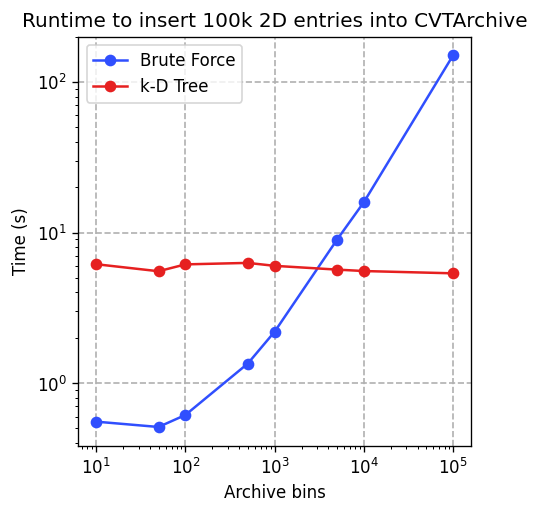
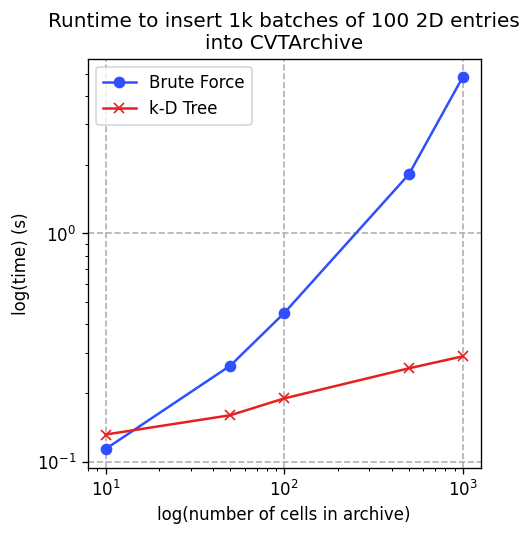
Re-run CVTArchive benchmarks and update CVTArchive (#235)
* Fix benchmark code

* Reduce benchmarked cells

* Update cvt add plot

* History

* Update CVTArchive to have use_kd_tree=True

* Docstring tweak

* Tweak benchmark to be more reflective of actual usage

* Tweak axes labels

* Update plot

diff --git a/ribs/archives/_cvt_archive.py b/ribs/archives/_cvt_archive.py
@@ -10,44 +10,44 @@ from ribs.archives._archive_base import ArchiveBase
 
 
 class CVTArchive(ArchiveBase):
-    """An archive that divides the entire behavior space into a fixed number of
+    """An archive that divides the entire measure space into a fixed number of
     cells.
 
     This archive originates in `Vassiliades 2018
     <https://ieeexplore.ieee.org/document/8000667>`_. It uses Centroidal Voronoi
-    Tesselation (CVT) to divide an n-dimensional behavior space into k cell. The
-    CVT is created by sampling points uniformly from the n-dimensional behavior
-    space and using k-means clustering to identify k centroids. When items are
-    inserted into the archive, we identify their cell by identifying the closest
-    centroid in behavior space (using Euclidean distance). For k-means
-    clustering, we use :func:`sklearn.cluster.k_means`.
+    Tesselation (CVT) to divide an n-dimensional measure space into k cells.
+    The CVT is created by sampling points uniformly from the n-dimensional
+    measure space and using k-means clustering to identify k centroids. When
+    items are inserted into the archive, we identify their cell by identifying
+    the closest centroid in measure space (using Euclidean distance). For
+    k-means clustering, we use :func:`sklearn.cluster.k_means`.
 
-    Finding the closest centroid is done in O(cells) time (i.e. brute force) by
-    default. If ``use_kd_tree`` is True, it can be done in roughly O(log cells)
-    time using :class:`scipy.spatial.cKDTree`. However, using the k-D tree
-    lowers performance for small numbers of cells. The following plot compares
-    the runtime of brute force vs k-D tree when inserting 100k samples into a 2D
-    archive with varying numbers of cells (we took the minimum over 5 runs for
-    each data point, as recommended in the docs for :meth:`timeit.Timer.repeat`.
-    Note the logarithmic scales. This plot was generated on a reasonably modern
-    laptop.
+    By default, finding the closest centroid is done in roughly
+    O(log(number of cells)) time using :class:`scipy.spatial.cKDTree`. To switch
+    to brute force, which takes O(number of cells) time, pass
+    ``use_kd_tree=False``.
+
+    To compare the performance of using the k-D tree vs brute force, we ran
+    benchmarks where we inserted 1k batches of 100 solutions into a 2D archive
+    with varying numbers of cells. We took the minimum over 5 runs for each data
+    point, as recommended in the docs for :meth:`timeit.Timer.repeat`.  Note the
+    logarithmic scales. This plot was generated on a reasonably modern laptop.
 
     .. image:: ../_static/imgs/cvt_add_plot.png
         :alt: Runtime to insert 100k entries into CVTArchive
 
-    Archives with at least 5k cells seem to have faster insertion when using a
-    k-D tree than when using brute force, so **we recommend setting**
-    ``use_kd_tree`` **if the** ``CVTArchive`` **has at least 5k cells**. See
+    Across almost all numbers of cells, using the k-D tree is faster than using
+    brute force. Thus, **we recommend always using he k-D tree.** See
     `benchmarks/cvt_add.py
     <https://github.com/icaros-usc/pyribs/tree/master/benchmarks/cvt_add.py>`_
     in the project repo for more information about how this plot was generated.
 
     Finally, if running multiple experiments, it may be beneficial to use the
     same centroids across each experiment. Doing so can keep experiments
-    consistent and reduce execution time. To do this, either 1) construct custom
-    centroids and pass them in via the ``custom_centroids`` argument, or 2)
-    access the centroids created in the first archive with :attr:`centroids` and
-    pass them into ``custom_centroids`` when constructing archives for
+    consistent and reduce execution time. To do this, either (1) construct
+    custom centroids and pass them in via the ``custom_centroids`` argument, or
+    (2) access the centroids created in the first archive with :attr:`centroids`
+    and pass them into ``custom_centroids`` when constructing archives for
     subsequent experiments.
 
     Args:
@@ -55,7 +55,7 @@ class CVTArchive(ArchiveBase):
         cells (int): The number of cells to use in the archive, equivalent to
             the number of centroids/areas in the CVT.
         ranges (array-like of (float, float)): Upper and lower bound of each
-            dimension of the behavior space, e.g. ``[(-1, 1), (-2, 2)]``
+            dimension of the measure space, e.g. ``[(-1, 1), (-2, 2)]``
             indicates the first dimension should have bounds :math:`[-1,1]`
             (inclusive), and the second dimension should have bounds
             :math:`[-2,2]` (inclusive). ``ranges`` should be the same length as
@@ -63,15 +63,15 @@ class CVTArchive(ArchiveBase):
         seed (int): Value to seed the random number generator as well as
             :func:`~sklearn.cluster.k_means`. Set to None to avoid a fixed seed.
         dtype (str or data-type): Data type of the solutions, objective values,
-            and behavior values. We only support ``"f"`` / :class:`np.float32`
+            and measure values. We only support ``"f"`` / :class:`np.float32`
             and ``"d"`` / :class:`np.float64`.
         samples (int or array-like): If it is an int, this specifies the number
             of samples to generate when creating the CVT. Otherwise, this must
-            be a (num_samples, behavior_dim) array where samples[i] is a sample
+            be a (num_samples, measure_dim) array where samples[i] is a sample
             to use when creating the CVT. It can be useful to pass in custom
-            samples when there are restrictions on what samples in the behavior
+            samples when there are restrictions on what samples in the measure
             space are (physically) possible.
-        custom_centroids (array-like): If passed in, this (cells, behavior_dim)
+        custom_centroids (array-like): If passed in, this (cells, measure_dim)
             array will be used as the centroids of the CVT instead of generating
             new ones. In this case, ``samples`` will be ignored, and
             ``archive.samples`` will be None. This can be useful when one wishes
@@ -80,8 +80,8 @@ class CVTArchive(ArchiveBase):
             default, we pass in `n_init=1`, `init="random"`,
             `algorithm="lloyd"`, and `random_state=seed`.
         use_kd_tree (bool): If True, use a k-D tree for finding the closest
-            centroid when inserting into the archive. This may result in a
-            speedup for larger dimensions.
+            centroid when inserting into the archive. If False, brute force will
+            be used instead.
         ckdtree_kwargs (dict): kwargs for :class:`~scipy.spatial.cKDTree`. By
             default, we do not pass in any kwargs.
     Raises:
@@ -98,7 +98,7 @@ class CVTArchive(ArchiveBase):
                  samples=100_000,
                  custom_centroids=None,
                  k_means_kwargs=None,
-                 use_kd_tree=False,
+                 use_kd_tree=True,
                  ckdtree_kwargs=None):
 
         ArchiveBase.__init__(

diff --git a/benchmarks/cvt_add.py b/benchmarks/cvt_add.py
@@ -3,22 +3,21 @@
 In CVTArchive, we use a k-D tree to identify the cell by finding the nearest
 centroid to a solution in behavior space. Though a k-D tree is theoretically
 more efficient than brute force, constant factors mean that brute force can be
-faster than k-D tree for smaller numbers of centroids / cells. In this script, we
-want to increase the number of cells in the archive and see when the k-D tree
-becomes faster than brute force.
+faster than k-D tree for smaller numbers of centroids / cells. In this script,
+we increase the number of cells in the archive and see when the k-D tree becomes
+faster than brute force.
 
-In this experiment, we construct archives with 10, 50, 100, 500, 1k, 5k, 10k,
-100k cells in the behavior space of [(-1, 1), (-1, 1)] and 100k samples (except
-for 10k cells, where we use 200k samples so that the CVT generation does not drop
-a cluster). In each archive, we then time how long it takes to add 100k random
-solutions sampled u.a.r. from the behavior space. We run each experiment with
-brute force and with the k-D tree, 5 times each, and take the minimum runtime
-(see https://docs.python.org/3/library/timeit.html#timeit.Timer.repeat).
+In this experiment, we construct archives with 10, 50, 100, 500, 1k cells in the
+behavior space of [(-1, 1), (-1, 1)] and 100k samples.  In each archive, we then
+time how long it takes to add 1k batches of 100 random solutions sampled u.a.r.
+from the behavior space. We run each experiment with brute force and with the
+k-D tree, 5 times each, and take the minimum runtime (see
+https://docs.python.org/3/library/timeit.html#timeit.Timer.repeat).
 
 Usage:
     python cvt_add.py
 
-This script will run for a while (~30 min) and produce two outputs. The first is
+This script will run for a few minutes and produce two outputs. The first is
 cvt_add_times.json, which holds the raw times. The second is cvt_add_plot.png,
 which is a plot of the times with respect to number of cells.
 
@@ -63,12 +62,13 @@ def plot_times(n_cells, brute_force_t, kd_tree_t, filename="cvt_add_plot.png"):
     """Plots the results to the given file."""
     fig, ax = plt.subplots(figsize=(4, 4))
     fig.tight_layout()
-    ax.set_title("Runtime to insert 100k 2D entries into CVTArchive")
-    ax.set_xlabel("Archive cells")
-    ax.set_ylabel("Time (s)")
+    ax.set_title(
+        "Runtime to insert 1k batches of 100 2D entries\ninto CVTArchive")
+    ax.set_xlabel("log(number of cells in archive)")
+    ax.set_ylabel("log(time) (s)")
     ax.set_yscale("log")
     ax.semilogx(n_cells, brute_force_t, "-o", label="Brute Force", c="#304FFE")
-    ax.semilogx(n_cells, kd_tree_t, "-o", label="k-D Tree", c="#e62020")
+    ax.semilogx(n_cells, kd_tree_t, "-x", label="k-D Tree", c="#e62020")
     ax.grid(True, which="major", linestyle="--", linewidth=1)
     ax.legend(loc="upper left")
     fig.savefig(filename, bbox_inches="tight", dpi=120)
@@ -77,38 +77,44 @@ def plot_times(n_cells, brute_force_t, kd_tree_t, filename="cvt_add_plot.png"):
 def main():
     """Creates archives, times insertion into them, and plots results."""
     archive = None
-    n_cells = [10, 50, 100, 500, 1_000, 5_000, 10_000, 100_000]
+    n_cells = [10, 50, 100, 500, 1_000]
 
     # Pre-made solutions to insert.
-    n_vals = 100_000
-    solutions = np.random.uniform(-1, 1, (n_vals, 10))
-    objective_values = np.random.randn(n_vals)
-    behavior_values = np.random.uniform(-1, 1, (n_vals, 2))
+    n_batches = 1_000
+    batch_size = 100
+    all_solution_batch = np.random.uniform(-1, 1, (n_batches, batch_size, 10))
+    all_objective_batch = np.random.standard_normal((n_batches, batch_size))
+    all_measures_batch = np.random.uniform(-1, 1, (n_batches, batch_size, 2))
 
     # Set up these archives so we can use the same centroids across all
     # experiments for a certain number of cells (and also save time).
     ref_archives = {
         cells: CVTArchive(
-            solution_dim=solutions.shape[1],
+            solution_dim=all_solution_batch.shape[2],
             cells=cells,
             ranges=[(-1, 1), (-1, 1)],
-            # Use 200k cells to avoid dropping clusters.
-            samples=n_vals if cells != 10_000 else 200_000,
+            # Use 200k cells to avoid dropping clusters. However, note that we
+            # no longer test with 10k cells.
+            samples=100_000 if cells != 10_000 else 200_000,
             use_kd_tree=False) for cells in n_cells
     }
 
     def setup(cells, use_kd_tree):
         nonlocal archive
-        archive = CVTArchive(solution_dim=solutions.shape[1],
+        archive = CVTArchive(solution_dim=all_solution_batch.shape[2],
                              cells=cells,
                              ranges=[(-1, 1), (-1, 1)],
                              custom_centroids=ref_archives[cells].centroids,
                              use_kd_tree=use_kd_tree)
 
-    def add_100k_entries():
+    def add_entries():
         nonlocal archive
-        for i in range(n_vals):
-            archive.add(solutions[i], objective_values[i], behavior_values[i])
+        for i in range(n_batches):
+            archive.add(
+                all_solution_batch[i],
+                all_objective_batch[i],
+                all_measures_batch[i],
+            )
 
     # Run the timing.
     brute_force_t = []
@@ -120,7 +126,7 @@ def main():
                   f"Method: {'k-D Tree' if use_kd_tree else 'Brute Force'}")
             setup_func = partial(setup, cells, use_kd_tree)
             res_t = min(
-                timeit.repeat(add_100k_entries, setup_func, repeat=5, number=1))
+                timeit.repeat(add_entries, setup_func, repeat=5, number=1))
             print(f"Time: {res_t} s")
 
             if use_kd_tree:

diff --git a/HISTORY.md b/HISTORY.md
@@ -6,6 +6,9 @@
 
 #### API
 
+- Re-run CVTArchive benchmarks and update CVTArchive (#235)
+  - **Backwards-incompatible:** `use_kd_tree` now defaults to True since the k-D
+    tree is always faster than brute force in benchmarks.
 - Allow adding solutions one at a time in optimizer (#233)
 - Minimize numba usage (#232)
 - **Backwards-incompatible:** Implement batch addition in archives (#221)
@@ -14,7 +17,9 @@
 - `emitter.tell` now takes in `status_batch` and `value_batch` (#227)
 - Make epsilon configurable in archives (#226)
 - **Backwards-incompatible:** Remove ribs.factory (#225,#228)
-- **Backwards-incompatible:** Replaced `ImprovementEmitter`, `RandomDirectionEmitter`, and `OptimizingEmitter` with `EvolutionStrategyEmitter` (#220, #223)
+- **Backwards-incompatible:** Replaced `ImprovementEmitter`,
+  `RandomDirectionEmitter`, and `OptimizingEmitter` with
+  `EvolutionStrategyEmitter` (#220, #223)
 - Raise ValueError for incorrect array shapes in archive methods (#219)
 - Add elites_with_measures_single method for getting elite for a single
   solution's measures (#215)
